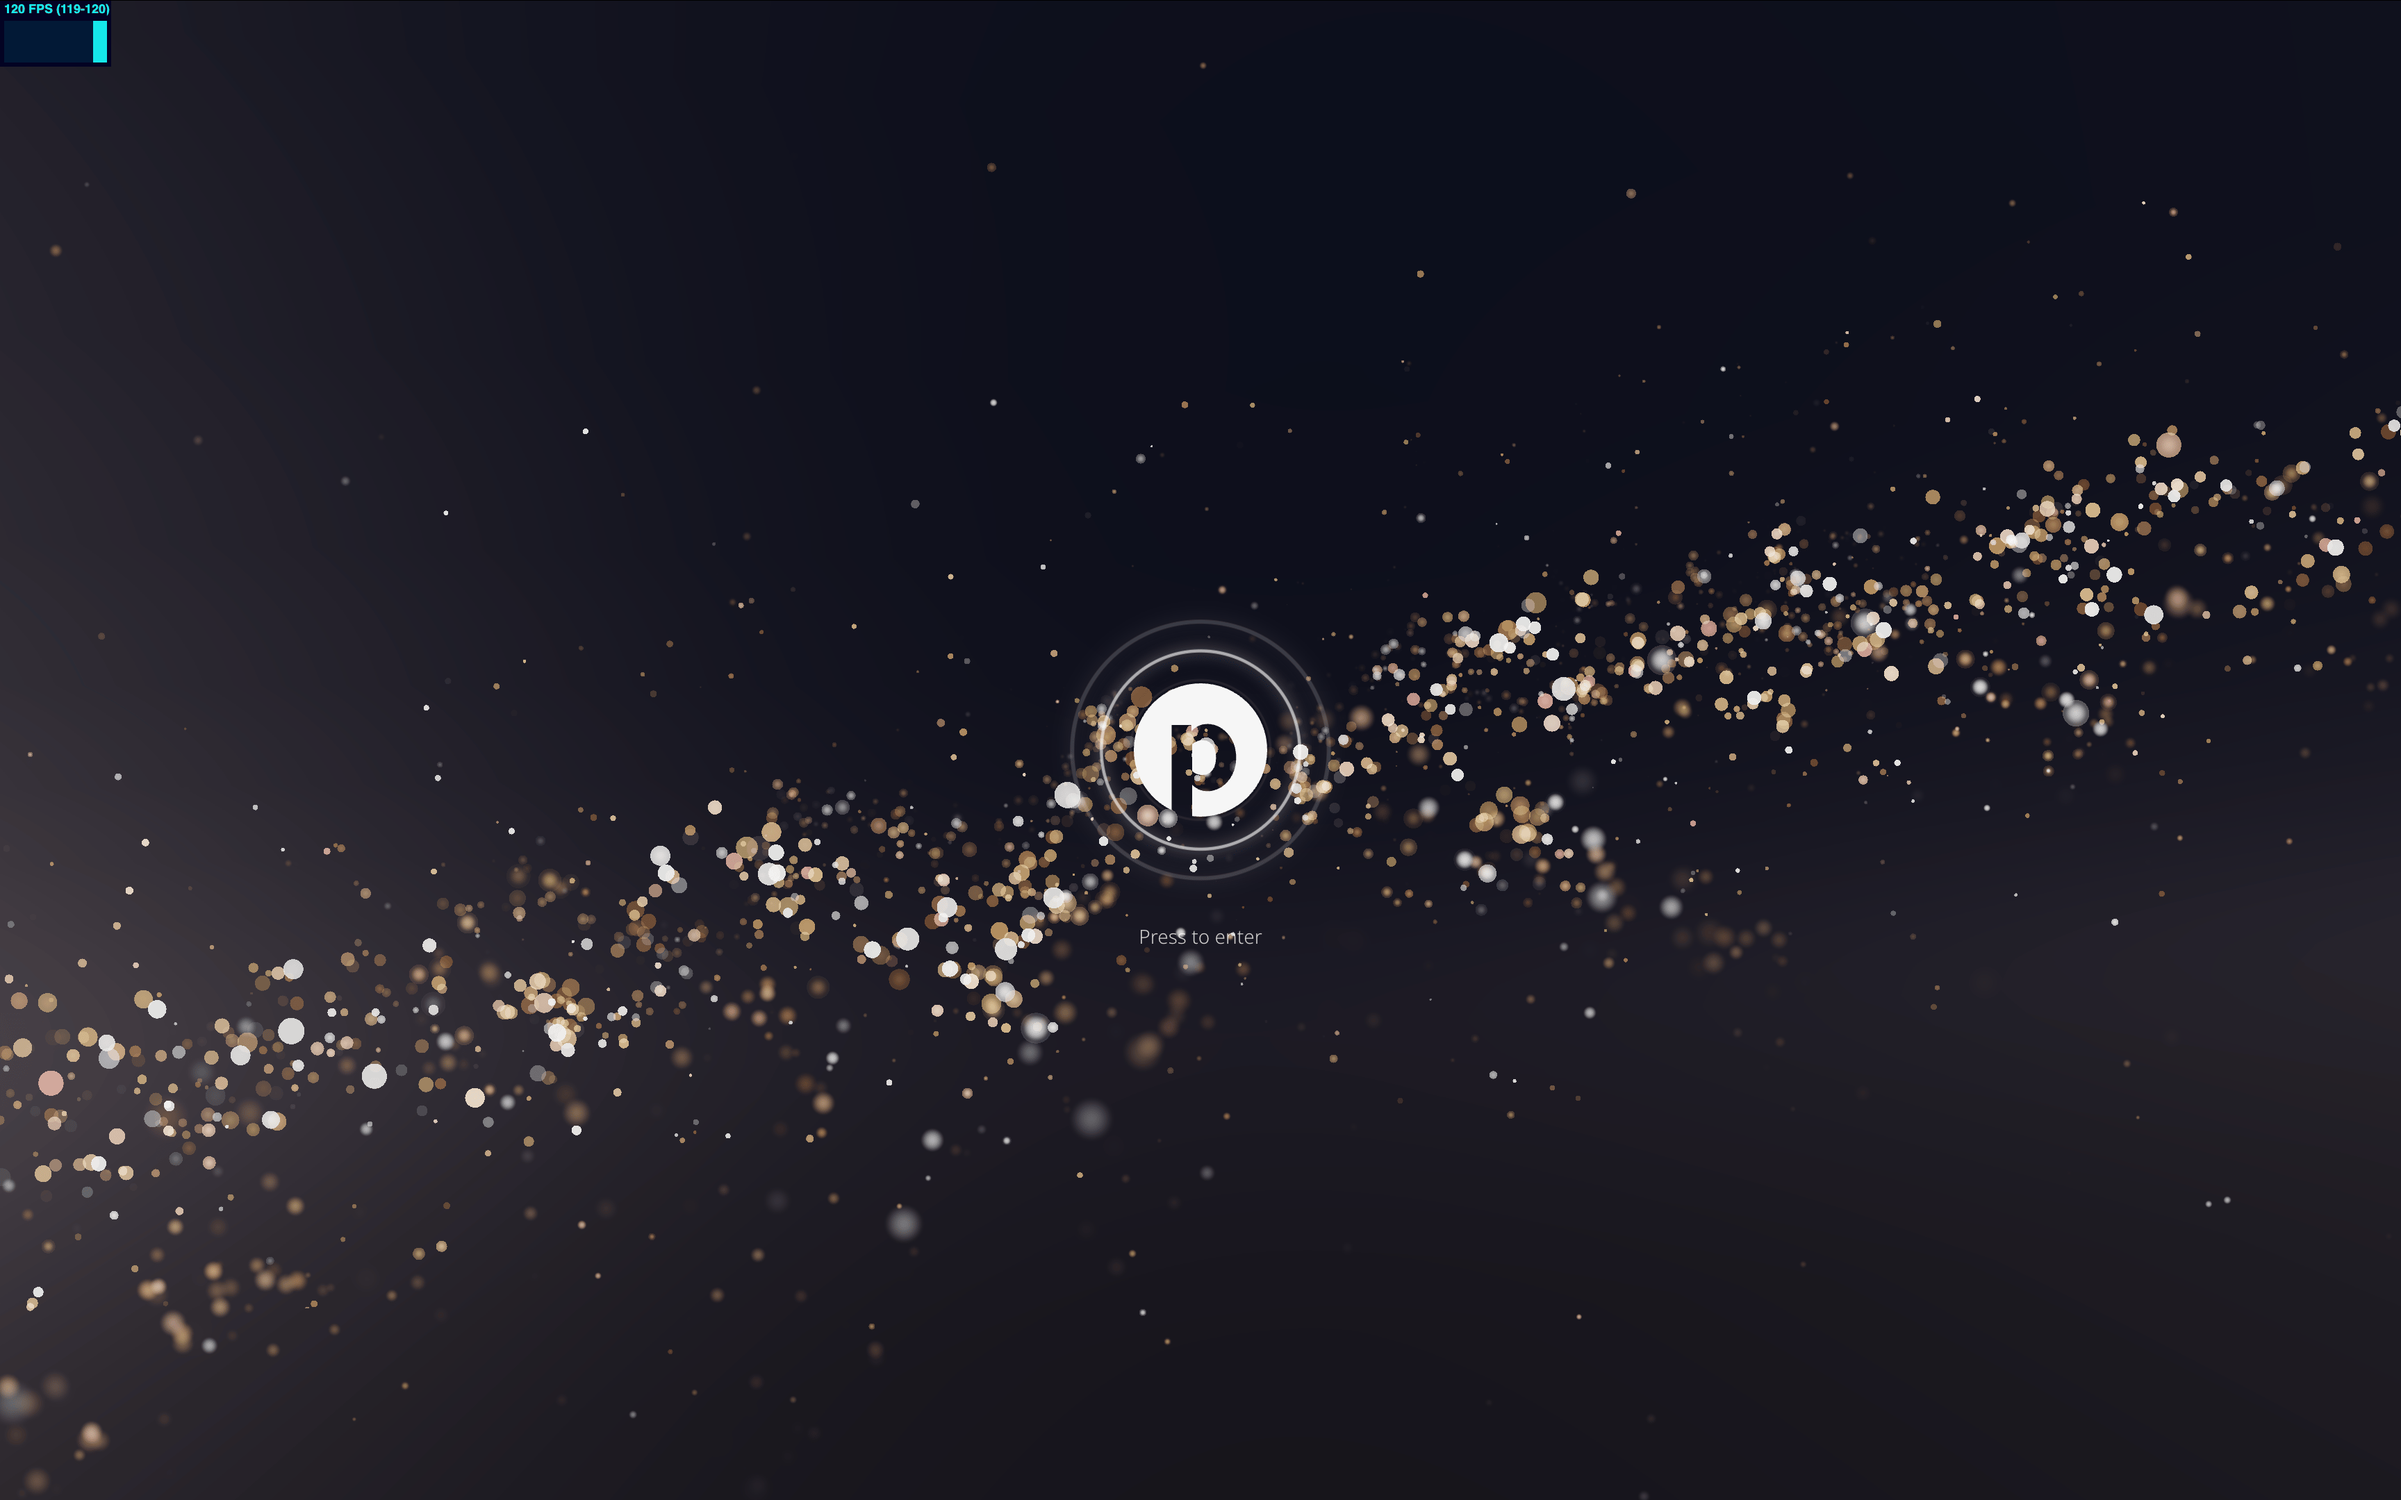
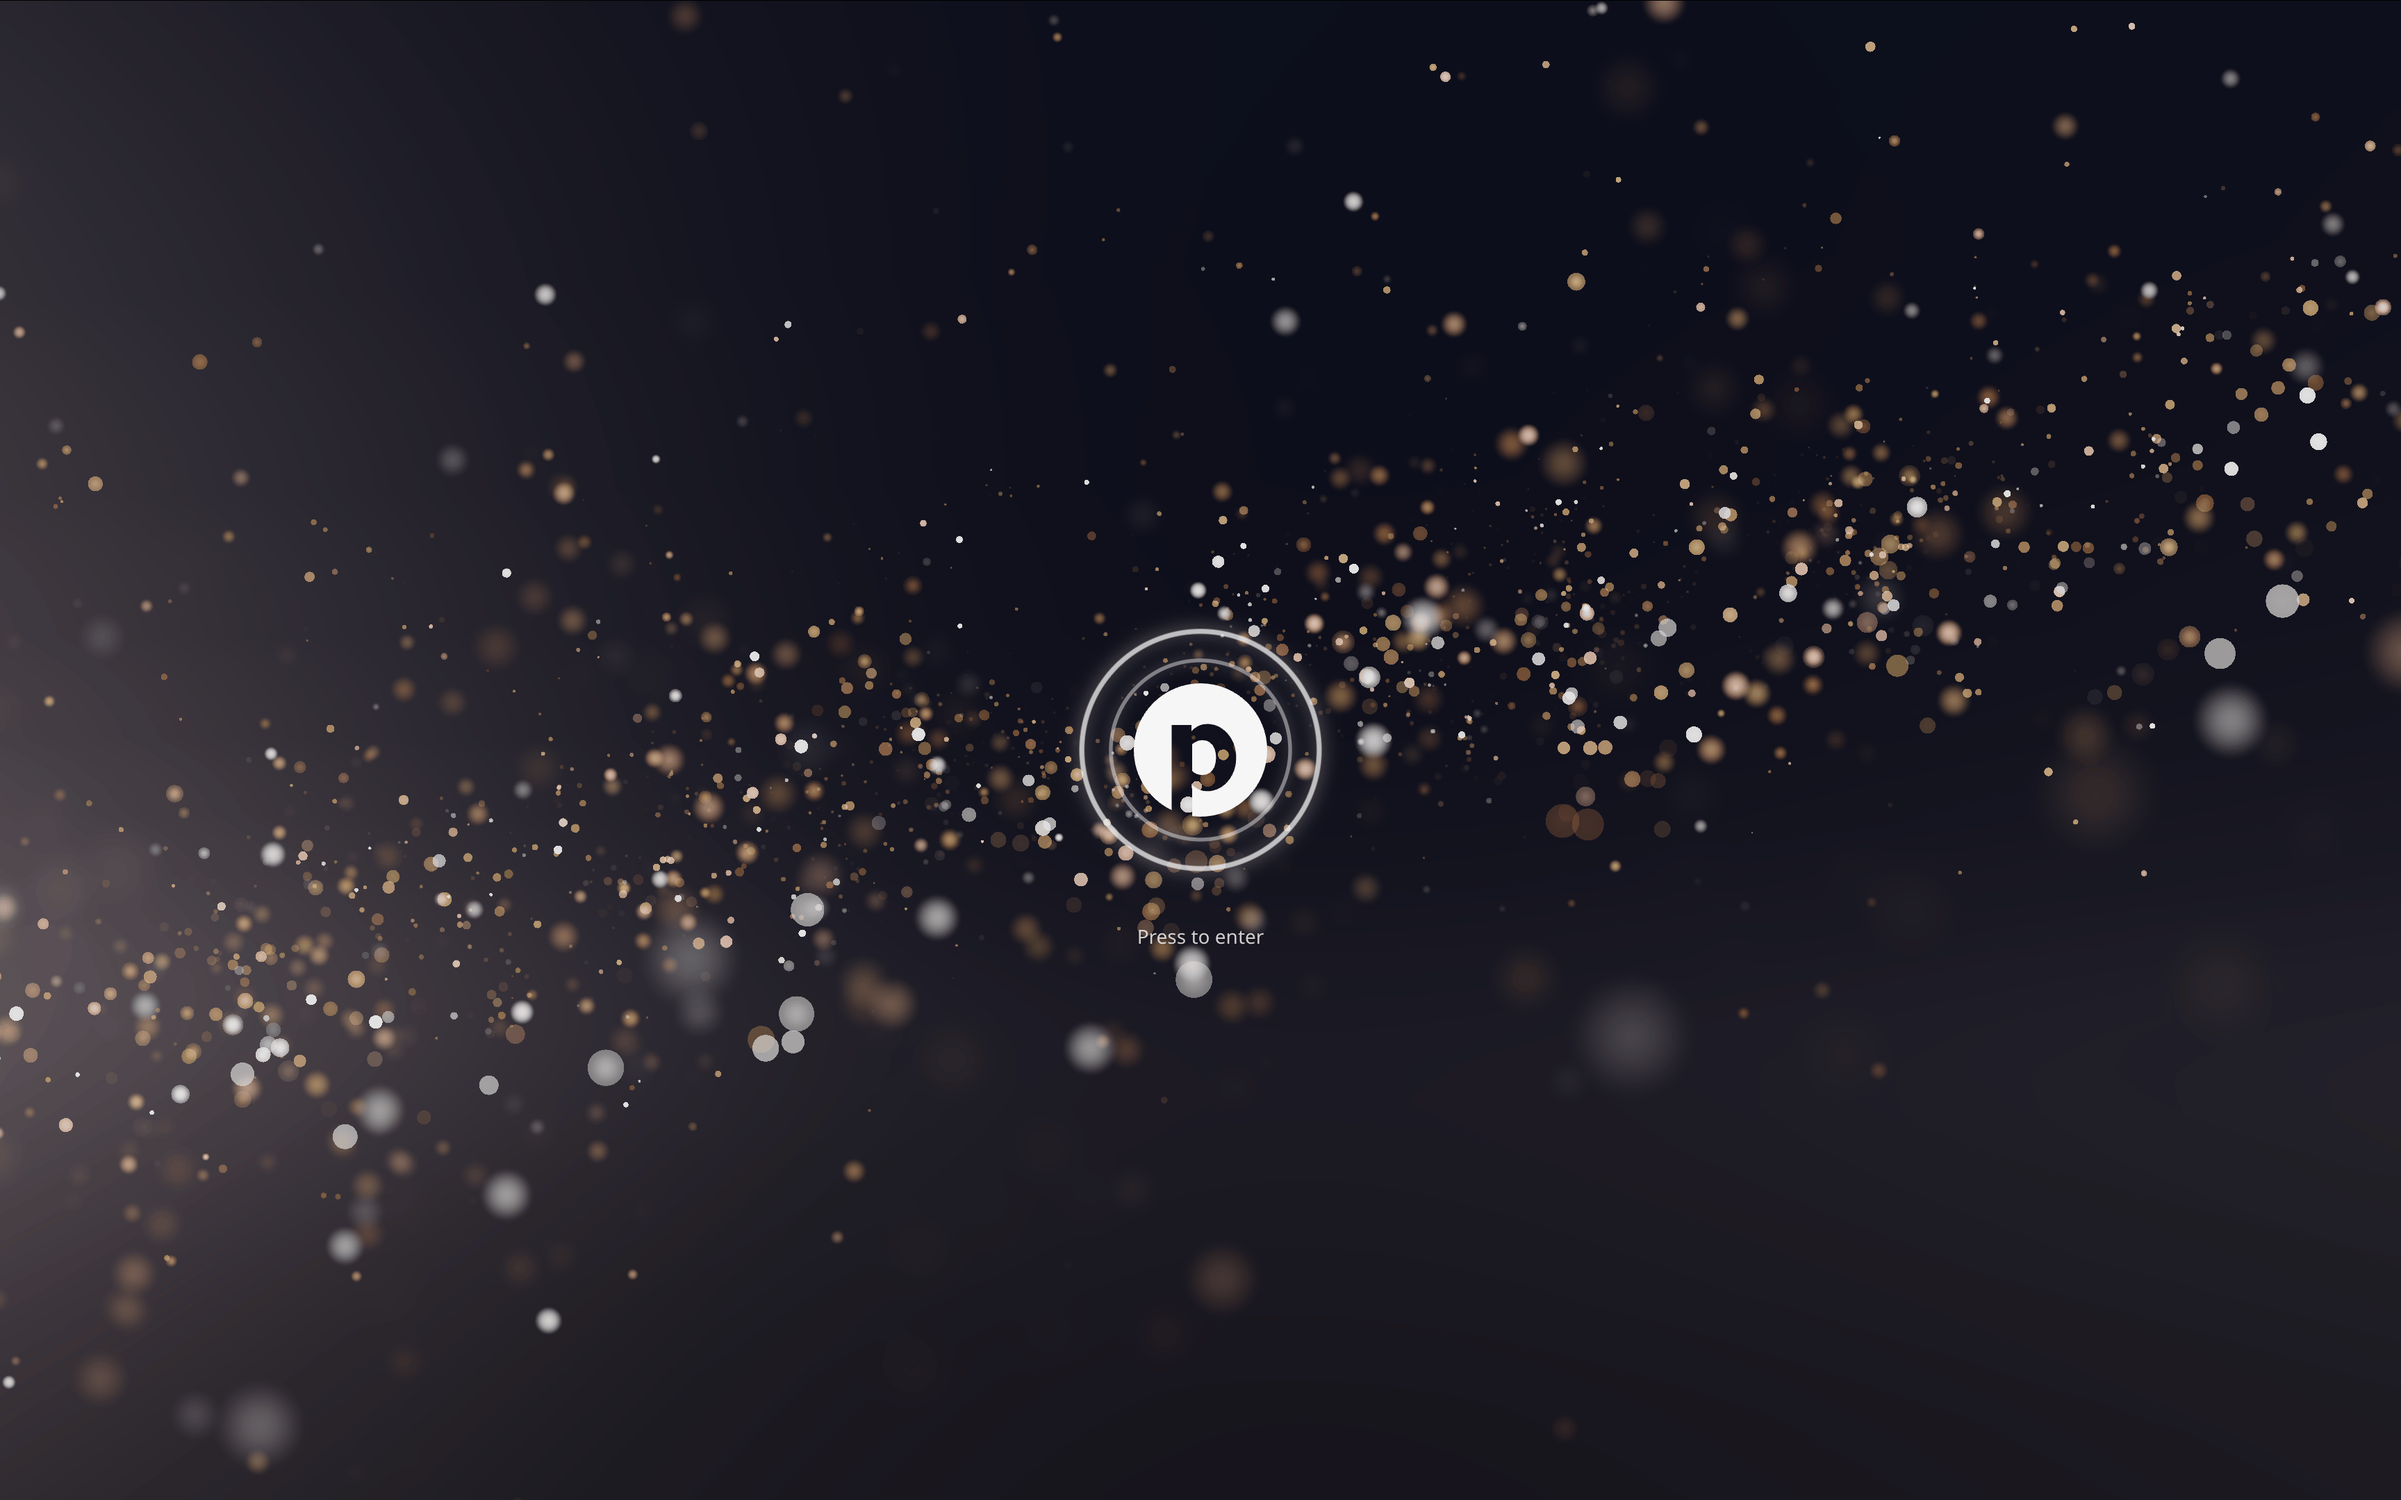
Update lighting to animate intensity. Add size attenuation to particles.

diff --git a/components/Particles.tsx b/components/Particles.tsx
@@ -53,7 +53,7 @@ const PALETTE = [
   ...colorsFromRange('neutral', {
     base: 'tan',
     num: COLOUR_COUNT * 0.7,
-    variance: 0.02,
+    variance: 0.03,
   }),
 ]
 
@@ -146,7 +146,7 @@ const PS5Particles: FC = () => {
       const softness = select(
         posZ.lessThan(0.0),
         smoothstep(-zRange / 2, 0.0, posZ).oneMinus(),
-        select(posZ.greaterThan(0.5), smoothstep(0.5, 3.0, posZ), 0.0),
+        select(posZ.greaterThan(0.5), smoothstep(0.5, 2.5, posZ), 0.0),
       )
       const sharpCircle = step(0.5, centeredUv).oneMinus()
       const softCircle = smoothstep(0.0, 0.5, centeredUv).oneMinus()
@@ -172,7 +172,7 @@ const PS5Particles: FC = () => {
       const distanceOpacity = select(
         posZ.lessThan(1.0),
         smoothstep(-zRange / 2, 1.0, posZ).oneMinus(),
-        select(posZ.greaterThan(1.0), smoothstep(1.0, 8.0, posZ), 0.0),
+        select(posZ.greaterThan(1.0), smoothstep(1.0, 7.0, posZ), 0.0),
       ).oneMinus()
 
       const finalOpacity = flickerAlpha.mul(enterOpacity).mul(distanceOpacity)
@@ -187,7 +187,13 @@ const PS5Particles: FC = () => {
         vec2(3.5),
         select(seed.lessThan(0.05), vec2(1.5), vec2(mix(0.5, 2.0, seed))),
       )
-      return scale
+      // Add custom size attenuation based on the Z position
+      const posZ = positionWorld.z
+      const attenuation = smoothstep(-zRange / 2, zRange / 2, posZ)
+        .clamp(0.3, 1.0)
+        .mul(2)
+
+      return scale.mul(attenuation)
     })()
 
     const key = colorNode.uuid
@@ -232,7 +238,7 @@ const PS5Particles: FC = () => {
       if (stage !== Stage.ENTER) return
       gsap.to(uEnterValue, {
         value: 1.0,
-        duration: 3,
+        duration: 2.6,
         ease: 'power2.inOut',
         onComplete: () => {
           setStage(Stage.BRAND)

diff --git a/components/UI.tsx b/components/UI.tsx
@@ -104,7 +104,7 @@ const PulsingBrand: FC<Props> = ({ transitionStatus }) => {
       {Array.from({ length: 3 }).map((_, index) => (
         <div
           key={index}
-          className="circle-pulse absolute aspect-square size-24 rounded-full border-[1.5px] border-white opacity-0"
+          className="circle-pulse absolute aspect-square size-24 rounded-full border-2 border-white opacity-0"
           style={{
             boxShadow: '0 0 6px 2px rgba(255, 255, 255, 0.25), inset 0 0 6px 2px rgba(255, 255, 255, 0.2)',
           }}
@@ -259,7 +259,7 @@ const Avatars: FC<Props> = ({ transitionStatus }) => {
       <div className="relative row-span-2 grid grid-rows-subgrid">
         <div
           id="avatar-circle"
-          className="aspect-square size-56 place-self-center rounded-full border-[1.5px] border-white p-2.5 opacity-0 sm:size-72"
+          className="aspect-square size-56 place-self-center rounded-full border-2 border-white p-2.5 opacity-0 sm:size-72"
           style={{
             boxShadow: '0 0 6px 2px rgba(255, 255, 255, 0.25), inset 0 0 6px 2px rgba(255, 255, 255, 0.2)',
           }}>
@@ -280,7 +280,7 @@ const Avatars: FC<Props> = ({ transitionStatus }) => {
               {...getReferenceProps()}
               className="group mx-auto flex cursor-pointer items-center gap-2 p-1 select-none">
               <Image src={optionsIcon} alt="options" className="h-5 w-fit" />
-              <span className="text-left text-sm font-light text-white/80 group-hover:text-white">Options</span>
+              <span className="text-left text-sm text-white/80 group-hover:text-white">Options</span>
             </button>
 
             {/* Contact options */}

diff --git a/components/Lighting.tsx b/components/Lighting.tsx
@@ -1,11 +1,18 @@
 'use client'
+import { useGSAP } from '@gsap/react'
 import { useThree } from '@react-three/fiber'
+import gsap from 'gsap'
 import React, { type FC, useEffect, useRef } from 'react'
 import { DirectionalLight, Object3D } from 'three/webgpu'
+
+import usePS5Store, { Stage } from '@/hooks/usePS5Store'
 
 const PS5Lighting: FC = () => {
   const scene = useThree((s) => s.scene)
   const light = useRef<DirectionalLight>(null)
+
+  const lightIntensity = useRef({ value: 0 })
+  const stage = usePS5Store((s) => s.stage)
 
   useEffect(() => {
     const setupLight = () => {
@@ -19,16 +26,27 @@ const PS5Lighting: FC = () => {
     setupLight()
   }, [scene])
 
+  useGSAP(
+    () => {
+      const targetIntensity = stage === Stage.RESTART ? 0 : 18
+      if (lightIntensity.current.value === targetIntensity) return
+      gsap.to(lightIntensity.current, {
+        value: targetIntensity,
+        duration: 2,
+        ease: 'power2.inOut',
+        onUpdate: () => {
+          if (!light.current) return
+          light.current.intensity = lightIntensity.current.value
+        },
+      })
+    },
+    { dependencies: [stage] },
+  )
+
   return (
-    <directionalLight
-      ref={light}
-      position={[8, 20, 0]}
-      intensity={18}
-      castShadow={true}
-      shadow-mapSize-width={2048}
-      shadow-mapSize-height={2048}
-      color="#AE9F9D"
-    />
+    <>
+      <directionalLight ref={light} position={[8, 20, 0]} intensity={1} castShadow={true} color="#AE9F9D" />
+    </>
   )
 }
 
